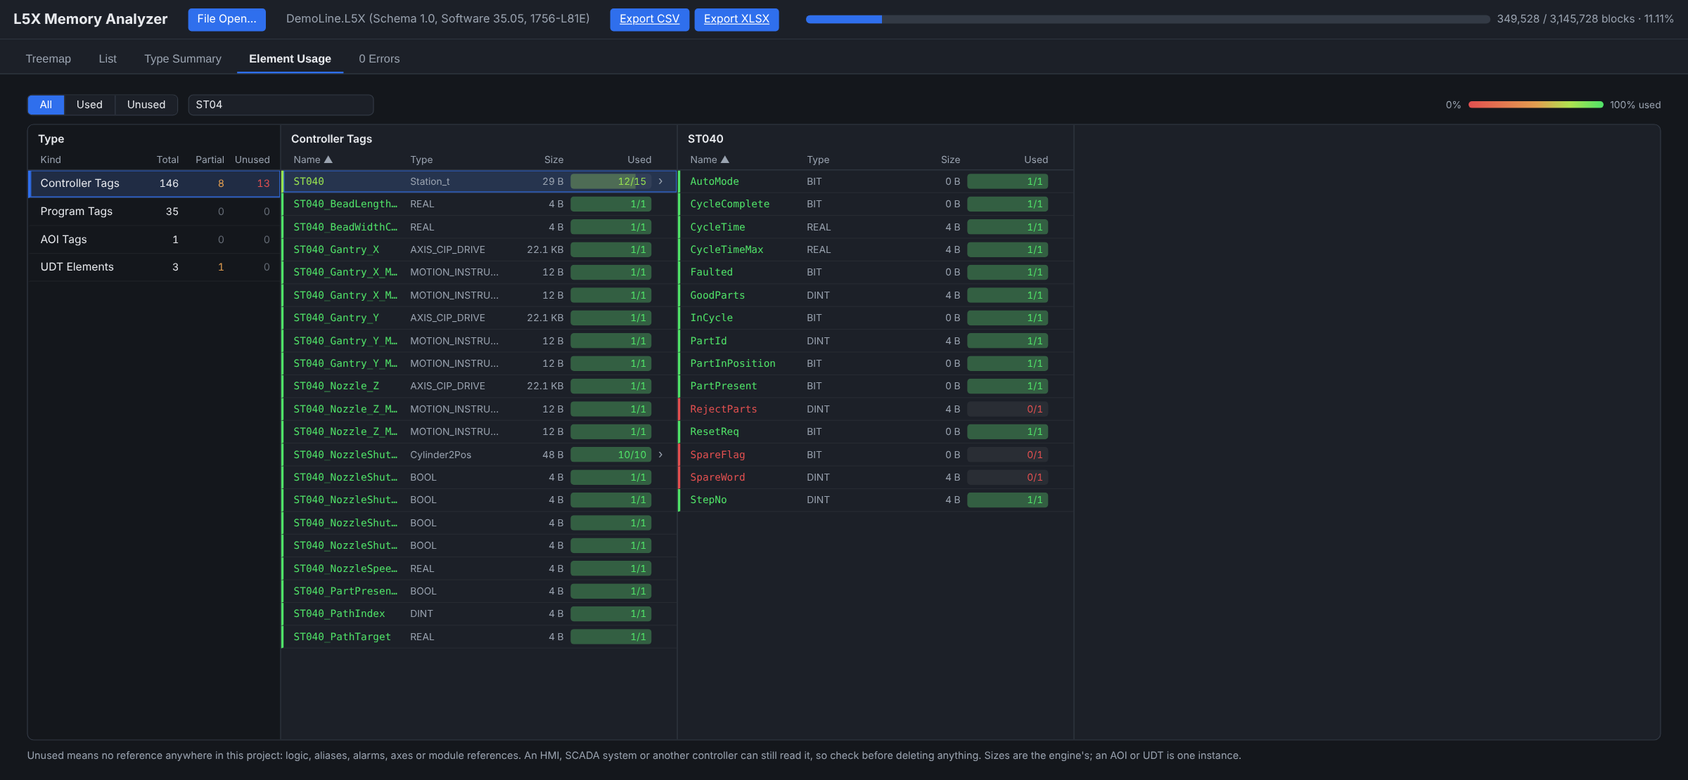
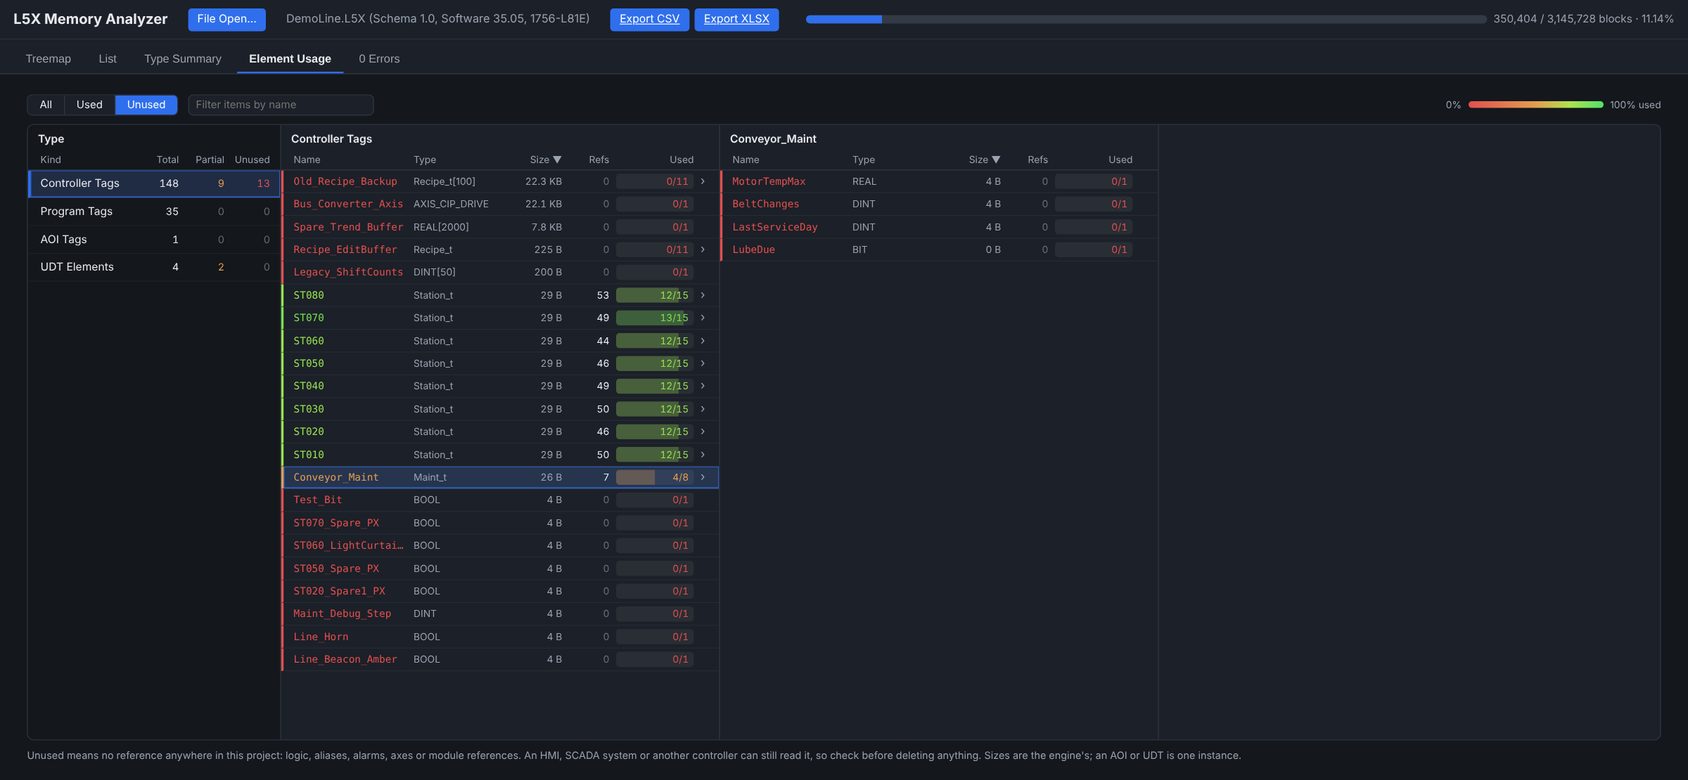
Element Usage: a Refs column on every row; arrays are one element, never split by index; demo gains a half-used maintenance record
Indirect addressing makes which array element is read unknowable from an L5X, so an array is
one element and an array of a structure lists its members across every element. Every row
carries its reference count (an AOI its calls, a UDT its instances), sortable. The demo's
Conveyor_Maint (4 of 8 members wired up) puts orange in the README pictures. 0.4 s on the
largest real program.

Claude-Session: https://claude.ai/code/session_01AGy4dVMQ2dzjTxeVGQMwxh

diff --git a/src/l5x_memory_analyzer/ui/static/app.js b/src/l5x_memory_analyzer/ui/static/app.js
@@ -2565,7 +2565,8 @@ function usageRows(nodes) {
   const f = USAGE.filter, { key, dir } = USAGE.sort;
   const rows = nodes.map((n, i) => [n, i]).filter(([n]) =>
     f === "all" || (f === "used" ? n.u > 0 : n.u < n.k));
-  const val = n => key === "size" ? (n.s || 0) : String(key === "type" ? n.t : n.n).toLowerCase();
+  const val = n => key === "size" ? (n.s || 0) : key === "refs" ? (n.x || 0)
+    : String(key === "type" ? n.t : n.n).toLowerCase();
   return rows.sort((a, b) => {
     const x = val(a[0]), y = val(b[0]);
     return (x < y ? -1 : x > y ? 1 : a[1] - b[1]) * dir;
@@ -2573,7 +2574,7 @@ function usageRows(nodes) {
 }
 
 function leafTitle(n) {
-  if (n.c) return `${n.u} of ${n.k} elements used`;
+  if (n.c) return `${n.u} of ${n.k} elements used, ${n.x || 0} reference${n.x === 1 ? "" : "s"}`;
   if (!n.u) return "no references in this project";
   const parts = [];
   if (n.x) parts.push(`${n.x} use${n.x === 1 ? "" : "s"}`);
@@ -2588,6 +2589,7 @@ function sortHead() {
     `<button type="button" data-sort="name" class="uh-name">Name${arrow("name")}</button>` +
     `<button type="button" data-sort="type" class="uh-type">Type${arrow("type")}</button>` +
     `<button type="button" data-sort="size" class="uh-size">Size${arrow("size")}</button>` +
+    `<button type="button" data-sort="refs" class="uh-refs" title="How many times the project's logic, aliases, alarms and axes name it (an AOI: its calls; a UDT: its instances)">Refs${arrow("refs")}</button>` +
     `<span class="uh-used">Used</span></div>`;
 }
 
@@ -2608,6 +2610,7 @@ function usageRowHtml(n, i, selected) {
     `<span class="ur-name">${escapeHtml(n.n)}</span>` +
     `<span class="ur-type">${escapeHtml(n.t || "")}</span>` +
     `<span class="ur-size">${n.s == null ? "" : fmtBytes(n.s)}</span>` +
+    `<span class="ur-refs${n.x ? "" : " zero"}">${(n.x || 0).toLocaleString()}</span>` +
     `<span class="ur-used"><span class="ur-bar"></span><span class="ur-frac">${n.u}/${n.k}</span></span>` +
     `<span class="ur-more">${(n.c && n.c.length) || n.has_children ? "›" : ""}</span></button>`;
 }
@@ -2621,7 +2624,7 @@ function usageColumn(title, nodes, selected, onPick, extraClass = "") {
     (rows.length ? rows.map(([n, i]) => usageRowHtml(n, i, n === selected)).join("")
                  : `<div class="usage-empty">${nodes.length ? "Nothing to show." : "None."}</div>`) + `</div>`;
   col.querySelectorAll(".usage-head button").forEach(b => b.addEventListener("click", () => {
-    USAGE.sort = { key: b.dataset.sort, dir: USAGE.sort.key === b.dataset.sort ? -USAGE.sort.dir : (b.dataset.sort === "size" ? -1 : 1) };
+    USAGE.sort = { key: b.dataset.sort, dir: USAGE.sort.key === b.dataset.sort ? -USAGE.sort.dir : (["size", "refs"].includes(b.dataset.sort) ? -1 : 1) };
     drawUsage();
   }));
   col.querySelectorAll(".usage-row").forEach(b => b.addEventListener("click", () => onPick(nodes[+b.dataset.i])));

diff --git a/src/l5x_memory_analyzer/ui/static/styles.css b/src/l5x_memory_analyzer/ui/static/styles.css
@@ -802,14 +802,14 @@ rect.tile-empty-space {
 /* One row of columns scrolling sideways together; each column scrolls on its own. */
 .usage-browser { flex: 1; min-height: 0; display: flex; overflow-x: auto; overflow-y: hidden;
   background: var(--panel-bg); border: 1px solid var(--border); border-radius: 8px; scroll-behavior: smooth; }
-.usage-col { flex: 0 0 470px; display: flex; flex-direction: column; min-height: 0; border-right: 1px solid var(--border); }
+.usage-col { flex: 0 0 520px; display: flex; flex-direction: column; min-height: 0; border-right: 1px solid var(--border); }
 .usage-col.usage-kinds { flex-basis: 300px; background: var(--bg); }
 .usage-col-title { padding: 9px 12px 6px; font-weight: 600; font-size: 13px; white-space: nowrap; overflow: hidden; text-overflow: ellipsis; }
-.usage-head, .usage-row { display: grid; grid-template-columns: minmax(0, 1fr) 112px 62px 96px 10px; gap: 8px; align-items: center; }
+.usage-head, .usage-row { display: grid; grid-template-columns: minmax(0, 1fr) 108px 60px 48px 92px 10px; gap: 8px; align-items: center; }
 .usage-head { padding: 3px 12px 5px 15px; border-bottom: 1px solid var(--border); font-size: 11.5px; color: var(--text-dim); }
 .usage-head button { font: inherit; color: inherit; background: none; border: 0; padding: 0; cursor: pointer; text-align: left; }
 .usage-head button:hover { color: var(--text); }
-.usage-head .uh-size, .usage-head .uh-used { text-align: right; }
+.usage-head .uh-size, .usage-head .uh-refs, .usage-head .uh-used { text-align: right; }
 .usage-scroll { flex: 1; min-height: 0; overflow-y: auto; }
 .usage-row, .usage-kind { width: 100%; font: inherit; text-align: left; color: var(--text); background: transparent; border: 0;
   border-left: 3px solid transparent; border-bottom: 1px solid var(--usage-rule); cursor: pointer; }
@@ -838,6 +838,8 @@ rect.tile-empty-space {
 .ur-frac { position: relative; display: block; padding: 0 6px; line-height: 18px; text-align: right; font-size: 11.5px;
   font-variant-numeric: tabular-nums; white-space: nowrap; color: var(--pct-color); }
 .ur-more { color: var(--text-dim); font-size: 14px; line-height: 1; }
+.ur-refs { text-align: right; font-size: 11.5px; font-variant-numeric: tabular-nums; color: var(--text); }
+.ur-refs.zero { color: var(--text-dim); opacity: 0.6; }
 .usage-empty { padding: 14px 12px; color: var(--text-dim); font-size: 13px; }
 .usage-note { margin: 0; font-size: 12px; color: var(--text-dim); }
 /* Clear of the fixed errors banner when it is showing. */

diff --git a/src/l5x_memory_analyzer/unused.py b/src/l5x_memory_analyzer/unused.py
@@ -15,7 +15,12 @@ Four kinds, each a list of items; each item is a tree of its elements, browsed c
 Sizes are the engine's (`sizing.tree.expand_children`): a tag's own figure from the report, an
 element's the bytes it occupies, an AOI or UDT item one instance. Usage is counted on the leaves:
 an item or element reads "u of k used", and is "used" when every leaf is, "partial" when some
-are, "unused" when none is.
+are, "unused" when none is. Every row also carries its reference count: how many times logic,
+an alias, an alarm or an axis names it (an AOI's calls, a UDT's instances).
+
+An array is one element, never broken into its indices: indirect addressing (`Arr[Idx]`) makes
+which element is read unknowable from an L5X. An array of a structure lists the structure's
+members, each standing for that member of every element, with its bytes summed over them.
 
 A tag's element is used when logic reaches it: by name, through an index (`Arr[Idx]` uses every
 element), as part of a whole structure passed as one (COP, an AOI InOut), or, for an AOI
@@ -31,7 +36,6 @@ from l5x_memory_analyzer.usage import (CONTROLLER_SCOPE, HIDDEN_MEMBER_PREFIX, S
                                        UsageIndex, _Node)
 
 MAX_LEVELS = 6               # element levels below an item
-ARRAY_LIST_LIMIT = 256       # a larger array is one "[*]" element: any index
 NODE_BUDGET = 20000          # elements per item before the rest are left unexpanded
 
 KINDS = (("controller_tags", "Controller Tags"), ("program_tags", "Program Tags"),
@@ -82,29 +86,21 @@ class UnusedReport:
 
     # ---- the engine's children ------------------------------------------
 
-    def _kids(self, dtype: str, dims: tuple[int, ...]) -> list[tuple[str, str, str, tuple, float]]:
-        """(label, segment, data type, dims, bytes) one level down, or [] for a leaf."""
-        key = (dtype, dims)
-        if key not in self._kid_cache:
+    def _kids(self, dtype: str) -> list[tuple[str, str, str, tuple, float]]:
+        """(label, segment, data type, dims, bytes) of a structure's members, or [] for an
+        atomic type. Overhead rows and hidden or system members are left out."""
+        if dtype not in self._kid_cache:
             out = []
-            n = 1
-            for d in dims:
-                n *= d
-            if dims and n > ARRAY_LIST_LIMIT:
-                out = [(f"[*] any of {n:,}", WILD, dtype, (), self._size(dtype, dims))]
-            else:
-                try:
-                    children = expand_children(dtype, dims, self.types, self.model)
-                except Exception:
-                    children = []
-                for c in children:
-                    if not c.segment:                       # an overhead row, not an element
-                        continue
-                    if c.segment.startswith(".") and not _visible(c.segment[1:]):
-                        continue
-                    out.append((c.name, c.segment, c.data_type, tuple(c.dimensions), c.bytes))
-            self._kid_cache[key] = out
-        return self._kid_cache[key]
+            try:
+                children = expand_children(dtype, (), self.types, self.model)
+            except Exception:
+                children = []
+            for c in children:
+                if not c.segment.startswith(".") or not _visible(c.segment[1:]):
+                    continue
+                out.append((c.name, c.segment, c.data_type, tuple(c.dimensions), c.bytes))
+            self._kid_cache[dtype] = out
+        return self._kid_cache[dtype]
 
     def _size(self, dtype: str, dims: tuple[int, ...]) -> float:
         try:
@@ -133,9 +129,17 @@ class UnusedReport:
 
     def _tag_node(self, label, dtype, dims, size, frontier, whole, implicit, level, budget) -> dict:
         """One element of a tag, with the usage-trie nodes that reach it (`frontier`),
-        whether a whole-structure use sits above it, and its AOI-logic uses."""
-        node = {"n": label, "t": _type_text(dtype, dims), "s": size}
-        kids = self._kids(dtype, dims) if level < MAX_LEVELS else []
+        whether a whole-structure use sits above it, and its AOI-logic uses. An array is
+        stepped through as "any index" and never split."""
+        refs = sum(n.n for n in frontier)
+        node = {"n": label, "t": _type_text(dtype, dims), "s": size, "x": refs}
+        count = 1
+        for d in dims:
+            count *= d
+        if dims:
+            whole = whole or any(n.end for n in frontier)
+            frontier = self._step(frontier, WILD)
+        kids = self._kids(dtype) if level < MAX_LEVELS else []
         children = []
         whole_here = whole or any(n.end for n in frontier)
         called = any(n.n for n in frontier)
@@ -143,18 +147,17 @@ class UnusedReport:
             if not budget.take():
                 break
             internal = 0
-            if seg.startswith(".") and dtype in self.u._aoi_names and called:
+            if dtype in self.u._aoi_names and called:
                 internal = self.u._aoi_internal.get((dtype, seg[1:]), 0)
-            children.append(self._tag_node(k_label, k_type, k_dims, k_bytes, self._step(frontier, seg),
+            children.append(self._tag_node(k_label, k_type, k_dims, k_bytes * count, self._step(frontier, seg),
                                            whole_here, internal or implicit, level + 1, budget))
         if children:
             node["c"] = children
             node["u"] = sum(c["u"] for c in children)
             node["k"] = sum(c["k"] for c in children)
             return node
-        uses = sum(n.n for n in frontier)
-        used = bool(uses or whole or implicit)
-        node.update(u=int(used), k=1, x=uses, w=bool(whole and not uses), i=implicit)
+        used = bool(refs or whole or implicit)
+        node.update(u=int(used), k=1, w=bool(whole and not refs), i=implicit)
         return node
 
     def _tag(self, scope: str, name: str, label: str, dtype: str, dims_text) -> dict:
@@ -191,11 +194,12 @@ class UnusedReport:
         return max(named, 0), whole, internal
 
     def _def_node(self, label, owner, member, dtype, dims, size, level, alive, budget) -> dict:
-        node = {"n": label, "t": _type_text(dtype, dims), "s": size}
+        uses, whole, internal = self._member_used(owner, member) if alive else (0, False, 0)
+        node = {"n": label, "t": _type_text(dtype, dims), "s": size, "x": uses + internal}
         children = []
         if level < MAX_LEVELS and (dtype in self.types or dtype in self.u._members):
-            for k_label, seg, k_type, k_dims, k_bytes in self._kids(dtype, ()):
-                if not seg.startswith(".") or not budget.take():
+            for k_label, seg, k_type, k_dims, k_bytes in self._kids(dtype):
+                if not budget.take():
                     continue
                 children.append(self._def_node(k_label, dtype, seg[1:], k_type, k_dims, k_bytes,
                                                level + 1, alive, budget))
@@ -204,17 +208,16 @@ class UnusedReport:
             node["u"] = sum(c["u"] for c in children)
             node["k"] = sum(c["k"] for c in children)
             return node
-        uses, whole, internal = self._member_used(owner, member) if alive else (0, False, 0)
         used = bool(uses or whole or internal)
-        node.update(u=int(used), k=1, x=uses, w=whole, i=internal)
+        node.update(u=int(used), k=1, w=whole and not (uses or internal), i=internal)
         return node
 
-    def _definition(self, name: str, kind_text: str, alive: bool) -> dict:
+    def _definition(self, name: str, kind_text: str, alive: bool, refs: int) -> dict:
         budget = _Budget()
-        node = {"n": name, "t": kind_text, "s": self._size(name, ())}
+        node = {"n": name, "t": kind_text, "s": self._size(name, ()), "x": refs}
         children = [self._def_node(k_label, name, seg[1:], k_type, k_dims, k_bytes, 1, alive, budget)
-                    for k_label, seg, k_type, k_dims, k_bytes in self._kids(name, ())
-                    if seg.startswith(".") and budget.take()]
+                    for k_label, seg, k_type, k_dims, k_bytes in self._kids(name)
+                    if budget.take()]
         node["c"] = children
         node["u"] = sum(c["u"] for c in children)
         node["k"] = sum(c["k"] for c in children)
@@ -222,7 +225,8 @@ class UnusedReport:
         return node
 
     def aoi_tags(self) -> list[dict]:
-        return [self._definition(aoi, "AOI", self.u.aoi_calls(aoi) > 0 or self.u.type_instances(aoi) > 0)
+        return [self._definition(aoi, "AOI", self.u.aoi_calls(aoi) > 0 or self.u.type_instances(aoi) > 0,
+                                 self.u.aoi_calls(aoi))
                 for aoi in sorted(self.u._aoi_names, key=str.lower)]
 
     def udt_elements(self) -> list[dict]:
@@ -230,8 +234,9 @@ class UnusedReport:
         for name, dt in self.types.items():
             if getattr(dt, "is_aoi", False):
                 continue
-            node = self._definition(name, "String" if dt.is_string_family else "UDT", self.u.type_instances(name) > 0)
-            node["instances"] = self.u.type_instances(name)
+            instances = self.u.type_instances(name)
+            node = self._definition(name, "String" if dt.is_string_family else "UDT", instances > 0, instances)
+            node["instances"] = instances
             out.append(node)
         return sorted(out, key=lambda i: i["n"].lower())
 

diff --git a/scripts/build_demo_project.py b/scripts/build_demo_project.py
@@ -14,8 +14,9 @@ unused on purpose, the way real projects accumulate it, for the usage flag to
 find: an old recipe backup array, a recipe edit buffer, a spare trend buffer, a
 legacy counts array, spare sensor inputs, an unwired horn and beacon, a light
 curtain bypass bit, a debug step, a test bit, two legacy recipe fields, two
-spare station members, a retired routine nothing calls, and the bus supply's
-converter axis.
+spare station members, half of a conveyor maintenance record (the logic counts
+starts and run hours; the service fields were never wired up), a retired
+routine nothing calls, and the bus supply's converter axis.
 
 It must open with ZERO unpriced items, so every block in it is one the engine
 prices and one with a zero-error capture behind it:
@@ -91,6 +92,13 @@ RECIPE_T = [MemberSpec("RecipeId", "DINT"), MemberSpec("PartNumber", "DINT"),
             MemberSpec("ConveyorSpeed", "DINT"), MemberSpec("VisionProgram", "DINT"),
             MemberSpec("PathSetpoints", "REAL", dimension=32),
             MemberSpec("LegacyOffsets", "REAL", dimension=16), MemberSpec("LegacyEnable", "BOOL")]
+
+# Half used: the line counts starts and run hours and flags service due; the
+# rest of the record was planned and never wired up.
+MAINT_T = [MemberSpec("StartCount", "DINT"), MemberSpec("RunHours", "REAL"),
+           MemberSpec("ServiceInterval", "REAL"), MemberSpec("ServiceDue", "BOOL"),
+           MemberSpec("LastServiceDay", "DINT"), MemberSpec("BeltChanges", "DINT"),
+           MemberSpec("MotorTempMax", "REAL"), MemberSpec("LubeDue", "BOOL")]
 
 SHIFT_T = [MemberSpec("GoodParts", "DINT"), MemberSpec("RejectParts", "DINT"),
            MemberSpec("DowntimeMin", "REAL"), MemberSpec("HourlyGood", "DINT", dimension=24),
@@ -251,7 +259,8 @@ def build() -> str:
     tags += [tag_xml("Conveyor_ActualFreq", "INT"), tag_xml("PartTracking", "DINT", dimensions=(8,)),
              tag_xml("ActiveRecipe", "Recipe_t", udt_members=RECIPE_T),
              tag_xml("RecipeLibrary", "Recipe_t", dimensions=(200,), udt_members=RECIPE_T),
-             tag_xml("ShiftData", "Shift_t", dimensions=(3,), udt_members=SHIFT_T)]
+             tag_xml("ShiftData", "Shift_t", dimensions=(3,), udt_members=SHIFT_T),
+             tag_xml("Conveyor_Maint", "Maint_t", udt_members=MAINT_T), tag_xml("Conveyor_StartOS", "BOOL")]
     # Left unused on purpose: what the usage flag is for.
     tags += [tag_xml("Old_Recipe_Backup", "Recipe_t", dimensions=(100,), udt_members=RECIPE_T),
              tag_xml("Recipe_EditBuffer", "Recipe_t", udt_members=RECIPE_T),
@@ -276,12 +285,15 @@ def build() -> str:
         "XIC(Line_Reset)CLR(ST010.StepNo);",
         "EQU(ActiveRecipe.RecipeId,RecipeSelect)OTE(Line_RecipeActive);",
         "XIC(ST080.CycleComplete)MOV(ActiveRecipe.PartNumber,ST080_LastPartNumber);",
+        "XIC(Line_AutoMode)ONS(Conveyor_StartOS)ADD(Conveyor_Maint.StartCount,1,Conveyor_Maint.StartCount);",
+        "XIC(Line_AutoMode)ADD(Conveyor_Maint.RunHours,0.0000028,Conveyor_Maint.RunHours);",
+        "GRT(Conveyor_Maint.RunHours,Conveyor_Maint.ServiceInterval)OTE(Conveyor_Maint.ServiceDue);",
     ]))
     return build_l5x(
         target_name="DemoLine",
         tags_xml="\n".join(tags),
         extra_datatypes_xml="\n".join([udt_xml("Station_t", STATION_T), udt_xml("Recipe_t", RECIPE_T),
-                                       udt_xml("Shift_t", SHIFT_T)]),
+                                       udt_xml("Shift_t", SHIFT_T), udt_xml("Maint_t", MAINT_T)]),
         extra_aoi_xml=aoi_def,
         extra_modules_xml="\n".join(modules),
         extra_program_tags_xml=program_tag_xml("Line_LoadRecipeOS", "BOOL"),

diff --git a/tests/test_unused_report.py b/tests/test_unused_report.py
@@ -75,10 +75,16 @@ def test_sizes_are_the_engines(report):
     assert tags["Dst"]["s"] > 0 and all(c["s"] > 0 for c in tags["Rec"]["c"])
 
 
-def test_small_atomic_array_lists_each_element(report):
+def test_an_array_is_one_element(report):
+    """Never split by index: indirect addressing makes the element unknowable."""
     arr = report["controller_tags"]["Arr"]
-    assert [k for k, v in _leaves(arr).items() if v] == ["[0]", "[2]"]
-    assert arr["status"] == "partial" and (arr["u"], arr["k"]) == (2, 4)
+    assert "c" not in arr and arr["status"] == "used" and arr["x"] == 2
+
+
+def test_every_row_carries_its_reference_count(report):
+    tags = report["controller_tags"]
+    assert tags["Nobody"]["x"] == 0 and tags["Dst"]["x"] == 1
+    assert {c["n"]: c["x"] for c in tags["Rec"]["c"]} == {"Id": 1, "Spare": 0}
 
 
 def test_udt_elements(report):

diff --git a/README.md b/README.md
@@ -96,33 +96,38 @@ same counts down to every member and element, for the whole project at once.
 
 The **Element Usage** tab answers "what in here does anything use?" for the whole project at
 once. It lists every **controller tag**, **program tag**, **AOI** and **user data type** with
-its size and how many of its elements are used: `12/15` means twelve of fifteen.
+its size, its **Refs** (how many times the logic, aliases, alarms and axes name it) and how
+many of its elements are used: `12/15` means twelve of fifteen.
 
 It browses like a column view. The left column is the kind, with how many items it holds, how
 many are partly used and how many are not used at all. Pick a kind and its items fill the
-next column; pick an item and its members or array elements open in the column after that;
-keep going and each choice opens another column, up to six levels below the item. Every
-column scrolls on its own, and the whole row of columns scrolls sideways.
-
-![Element Usage: the ST040 station tag opened, 12 of its 15 members used; RejectParts, SpareFlag and SpareWord used nowhere](docs/images/element_usage.png)
+next column; pick an item and its members open in the column after that; keep going and each
+choice opens another column, up to six levels below the item. Every column scrolls on its
+own, and the whole row of columns scrolls sideways.
 
 Every row is coloured by the share of its elements used, on one scale: **red** when nothing
 is used, **orange** at about half, **green** when everything is. The bar in the **Used**
-column fills to the same share, so a 90%-used structure and a 10%-used one look different at
-a glance. Click **Name**, **Type** or **Size** at the top of any column to sort every column
-by it, and switch **All / Used / Unused** to filter. Set to **Unused** and sorted by size,
-the biggest dead weight is the first row, and you can open it to see that nothing inside it
-is used either:
+column fills to the same share. Set to **Unused** and sorted by size, the biggest dead weight
+comes first, and partly used structures sit beside it: here a conveyor maintenance record
+whose starts and run hours are counted but whose four service fields were never wired up:
 
-![Element Usage set to Unused and sorted by size: Old_Recipe_Backup, 22.3 KB with 0 of 5,700 elements used, opened to element 99 and its members](docs/images/element_usage_unused.png)
+![Element Usage, Unused, by size: the old recipe backup, a spare axis and a trend buffer in red, the stations at 12 of 15 in yellow-green, Conveyor_Maint at 4 of 8 in orange, opened to its four unreferenced members](docs/images/element_usage.png)
+
+Click **Name**, **Type**, **Size** or **Refs** at the top of any column to sort every column
+by it, and switch **All / Used / Unused** to filter. Sorted by Refs, a station's busiest
+members come first and the ones nothing names sink to the bottom:
+
+![Element Usage: the ST040 station tag opened and sorted by Refs, StepNo named 9 times, SpareWord, RejectParts and SpareFlag never](docs/images/element_usage_refs.png)
 
 "Used" means the same thing as the **Uses** count above: referenced by logic, an alias, an
 alarm, an axis or a module somewhere in this L5X. An element is also used when its whole
 structure is passed as one (a COP, an AOI InOut) or, inside an AOI instance, when the AOI's
-own logic reads it. An array larger than 256 elements is shown as one `[*]` row, standing
-for any element. An HMI, SCADA system or another controller can still read something this
-tab calls unused, so it is a list to check, not a list to delete. The tab follows the
-page's light or dark theme.
+own logic reads it. An **array is one element**: it is never split into its indices, because
+indirect addressing (`Recipe[Idx]`) makes which element is read unknowable from an L5X. An
+array of a structure lists that structure's members, each standing for the member in every
+element. An HMI, SCADA system or another controller can still read something this tab calls
+unused, so it is a list to check, not a list to delete. The tab follows the page's light or
+dark theme.
 
 ### 4. User-defined types, member by member
 
@@ -385,7 +390,7 @@ sensors; a two-position cylinder AOI; a recipe library and shift production data
 5700 bus with six servo axes; a PowerFlex 525 infeed conveyor and a vision gateway. About
 nine tenths of what it declares is used by its logic, and the rest is the kind of thing real
 projects accumulate — an old recipe backup, a spare trend buffer, spare sensor inputs, legacy
-recipe fields, a retired routine. Every module and axis in it is built from blocks that
+recipe fields, a half-wired maintenance record, a retired routine. Every module and axis in it is built from blocks that
 compiled with zero errors in Studio 5000, and it opens with **zero unpriced items** — the
 build script refuses to write it otherwise. Rebuild it and explore it yourself:
 

diff --git a/docs/COMMANDS.md b/docs/COMMANDS.md
@@ -22,7 +22,8 @@ python -m l5x_memory_analyzer.cli dump  path/to/file.L5X   # raw parsed XML
 `--no-browser`.
 
 The UI's tabs: Treemap, List, Type Summary, **Element Usage** (every tag, AOI and UDT with
-how many of its elements anything uses, browsed column by column; served by `/api/unused`
+its references and how many of its elements anything uses, browsed column by column, arrays
+never split by index; served by `/api/unused`
 and `/api/unused/item`, worked out the first time the tab opens), Errors and
 Cross-Reference. The tour in `README.md` shows each.
 
